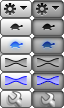
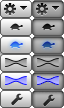
(trunk web) #4480 "Bottom bar looks bad on iPhone" -- fixed.
git-svn-id: svn://svn.transmissionbt.com/Transmission/trunk@12871 f4695dd4-2c0a-0410-b89c-da849a56a58e

Changed region(s): [[0.0938, 0.8333, 0.375, 1.0], [0.625, 0.8611, 0.875, 1.0]]

diff --git a/web/stylesheets/mobile.css b/web/stylesheets/mobile.css
@@ -825,20 +825,24 @@ ul.single_file li.inspector_torrent_file_list_entry>.file_priority_control, li.i
 
 div.torrent_footer {
 	height: 20px;
-	padding: 1px;
+	padding-top: 1px;
 	border-top: 1px solid #555;
 	position: relative;
 	width: 100%;
 	z-index: 3;
-	background-color: #6b83a1;
+
+        background-color: #B9B9B9; /* fallback color if gradients are not supported */
+        background-image: -webkit-gradient(linear, left top, left bottom, from(#C9C9C9), to(#A7A7A7));
+        background-image: -webkit-linear-gradient(top, #C9C9C9, #A7A7A7);
+        background-image:    -moz-linear-gradient(top, #C9C9C9, #A7A7A7);
+        background-image:     -ms-linear-gradient(top, #C9C9C9, #A7A7A7);
+        background-image:      -o-linear-gradient(top, #C9C9C9, #A7A7A7);
+        background-image:         linear-gradient(top, #C9C9C9, #A7A7A7); /* standard, but currently unimplemented */
 }
 
 div.torrent_footer > * {
 	position: relative;
 	float: left;
-	margin-right: 30px;
-}
-div.torrent_footer > * {
 	height: 18px;
 	width: 32px;
 	cursor: pointer;
@@ -846,6 +850,12 @@ div.torrent_footer > * {
 	-webkit-user-select: none;
 }
 
+div.torrent_footer > #compact-button {
+	margin-left: 10px;
+}
+div.torrent_footer > #prefs-button {
+	float: right;
+}
 div.torrent_footer ul#settings_menu {
 	display: none;
 }

diff --git a/web/javascript/prefs-dialog.js b/web/javascript/prefs-dialog.js
@@ -164,9 +164,7 @@ function PrefsDialog(remote) {
         return {
             width: $(window).width(),
             height: $(window).height(),
-            position: [ 'left', 'top' ],
-            resizable: false,
-            draggable: false
+            position: [ 'left', 'top' ]
         };
     },
 

diff --git a/web/index.html b/web/index.html
@@ -437,9 +437,9 @@
 					</ul>
 				</li>
 			</ul>
-			<div id="prefs-button">&nbsp;</div>
 			<div id="turtle-button">&nbsp;</div>
 			<div id="compact-button">&nbsp;</div>
+			<div id="prefs-button">&nbsp;</div>
 		</div>
 
 		<div class="contextMenu" id="torrent_context_menu">
